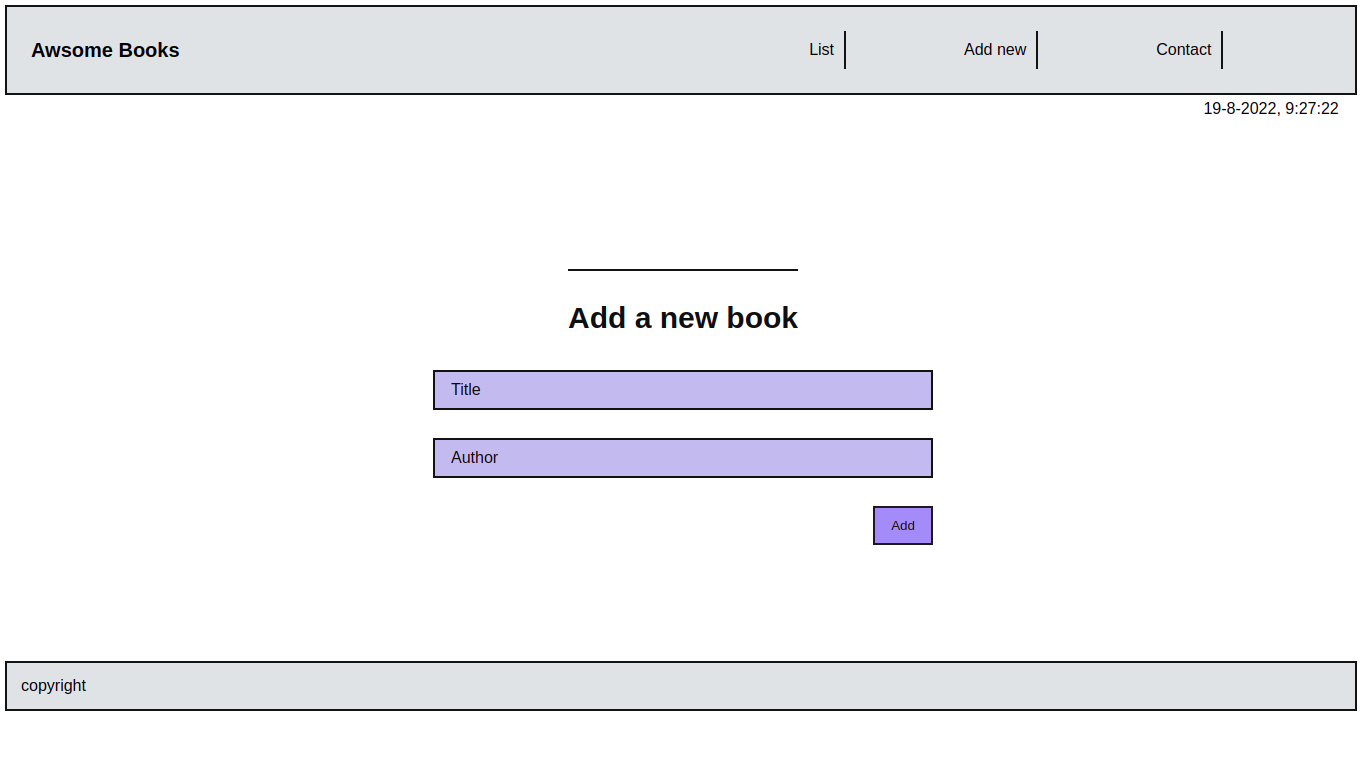
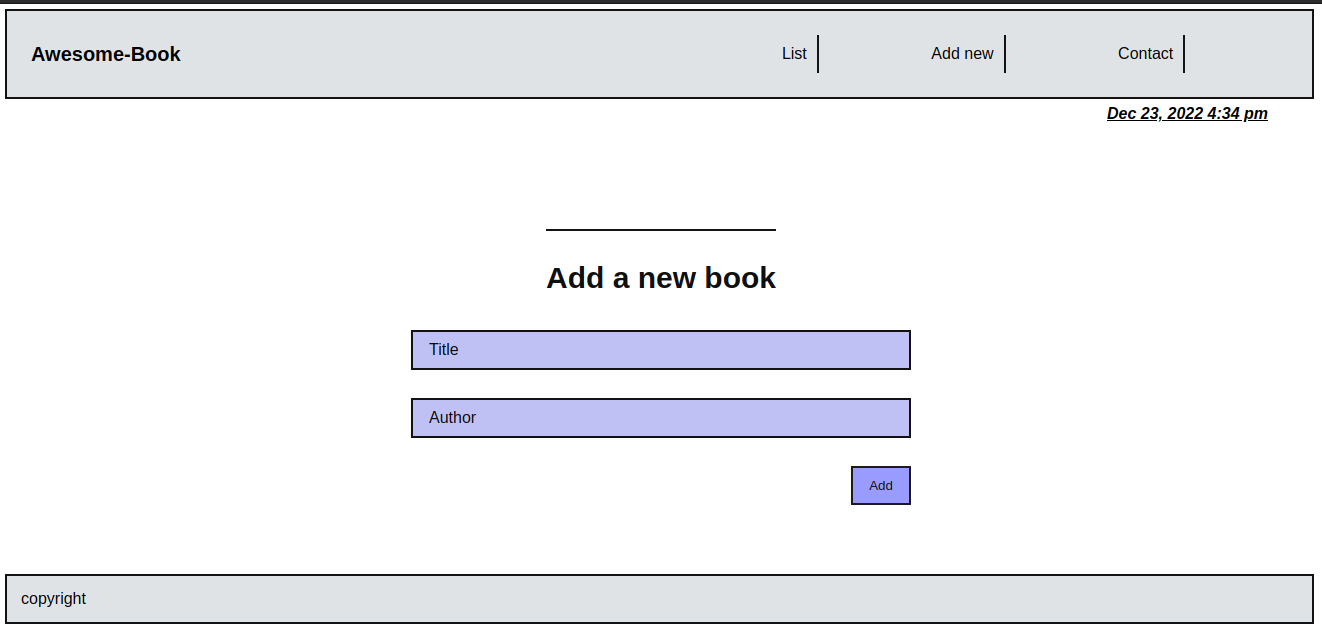
Grammar correction in descreption

diff --git a/src/components/Portfolio/projects/index.js b/src/components/Portfolio/projects/index.js
@@ -22,8 +22,8 @@ const slides = [
   },
   {
     url: `${book}`,
-    live: 'https://said-laasri.github.io/Awsome-Book/',
-    source: 'https://github.com/Said-laasri/Awsome-Book',
+    live: 'https://said-laasri.github.io/Awesome-Book/',
+    source: 'https://github.com/Said-laasri/Awesome-Book',
     title: 'Awesome-Book',
     description: 'Awesome-Book website is a page that contains information about list of books with the title and author names.',
   },
@@ -46,14 +46,14 @@ const slides = [
     live: 'https://space-hub-eight.vercel.app/',
     source: 'https://github.com/Said-laasri/space-hub',
     title: 'Space-Hub',
-    description: 'Space-Hub website is a page that contains information about all space missions and rocket used to travel in space . also you can joing any mission and reserve any rocket availabale for the mission.',
+    description: 'Space-Hub website is a page that contains information about all space missions and rockets used to travel in space. Also, you can join any mission and reserve any available rocket for the mission.',
   },
   {
     url: `${leaderboard}`,
     live: 'https://car-rental-k2ms0rho4-nickemma.vercel.app/',
     source: 'https://github.com/NickEmma/car-rental-app',
-    title: 'Exotic Rental',
-    description: 'Exotic Rental Car is a car rental agencies primarily serve people who requires a temporary vehicle. It allows users to create an account, login, and book a car for a specific period of time. It also allows users to view all available cars, and view a specific car. It also allows users to view all bookings made by a specific user.',
+    title: 'Exotic Rentals',
+    description: 'Exotic Rental Car is a car rentals agencie primarily serves people who require a temporary vehicle. It allows users to create an account, log in, and book a car for a specific period. It also allows users to view all available cars, and display each one. It also allows users to view all bookings made by each user.',
   },
   {
     url: `${bookstore}`,
